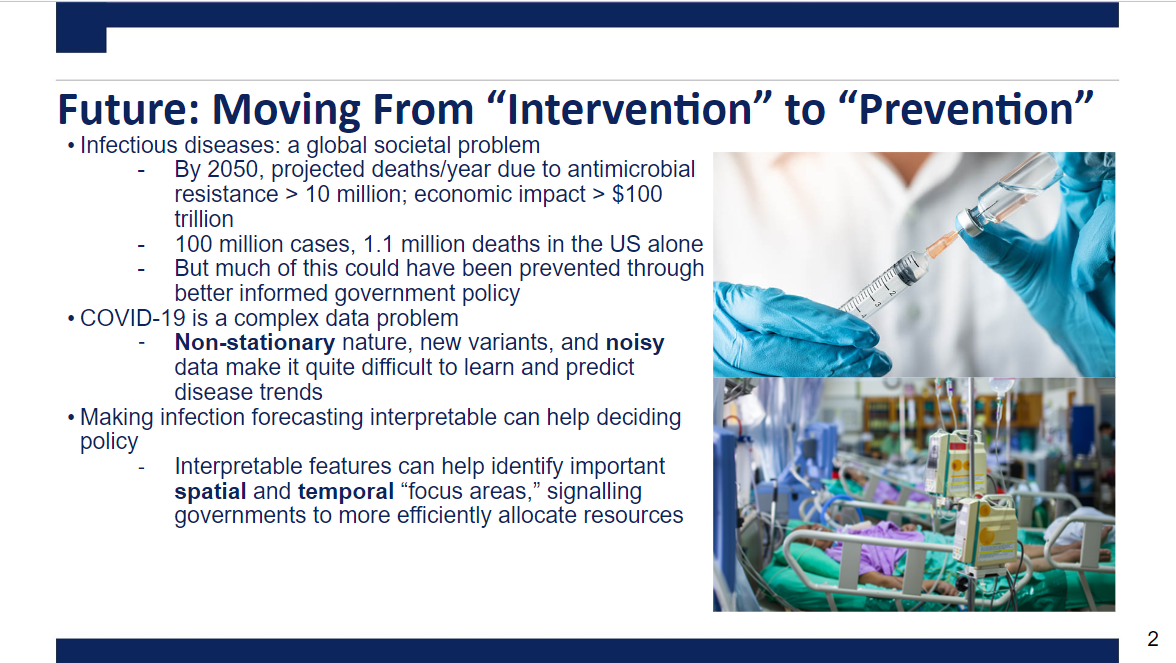
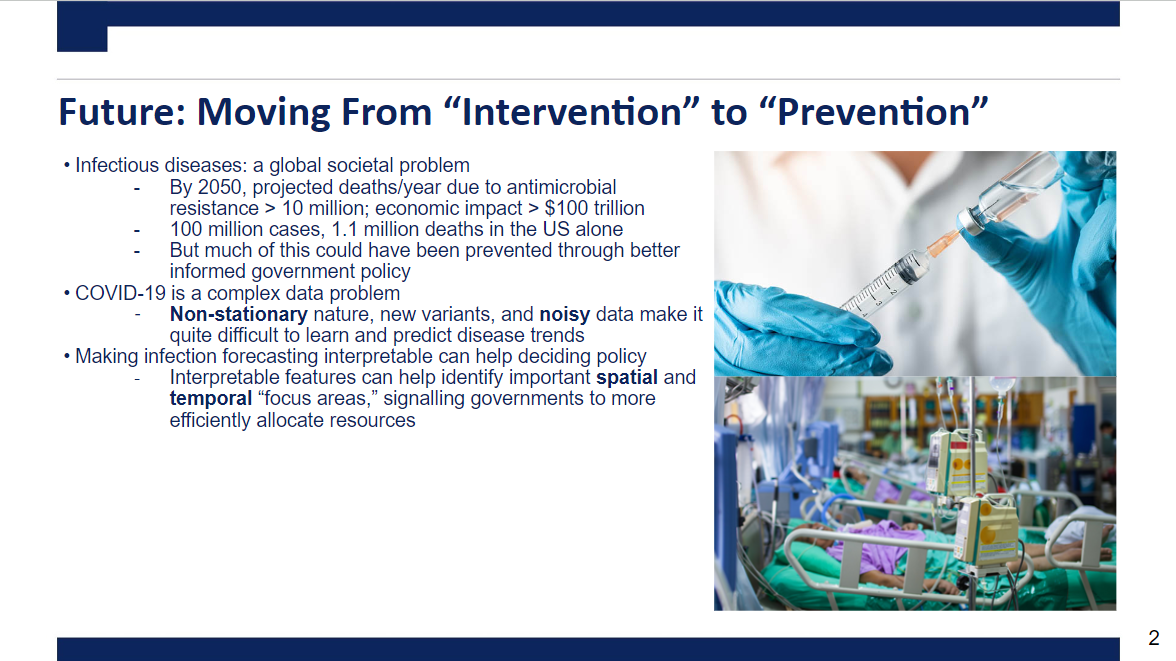
made font size smaller on slides

diff --git a/index.html b/index.html
@@ -569,7 +569,7 @@
         <div class="container">
             <div class="slideshow-container">
                 <div class="mySlides fade">
-                    <img src="./pics/img/slide1.jpg"  >
+                    <img src="./pics/img/slide1.png"  >
                 </div>
                 <div class="mySlides fade">
                     <img src="./pics/img/slide2.png" >
